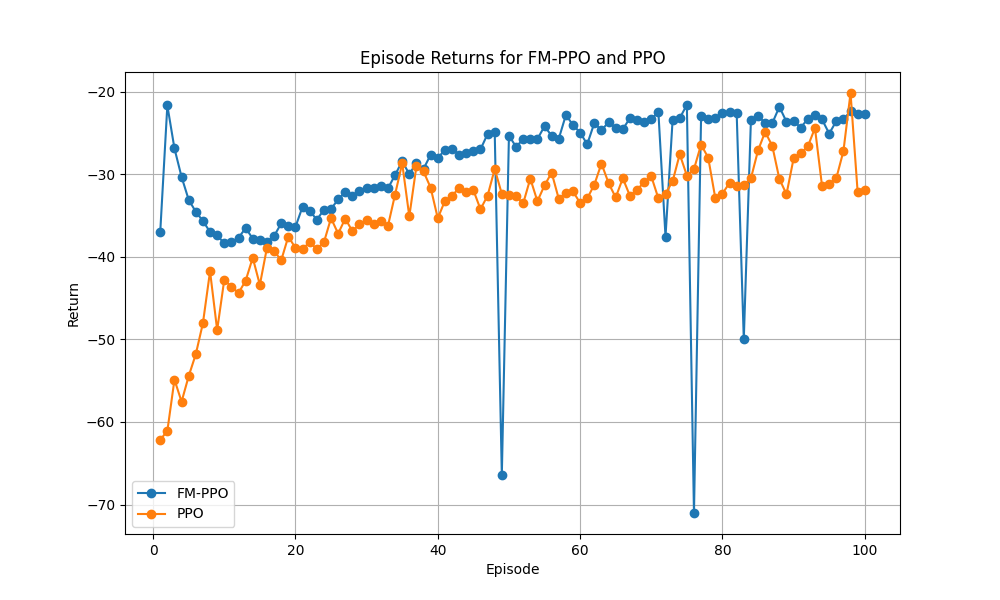
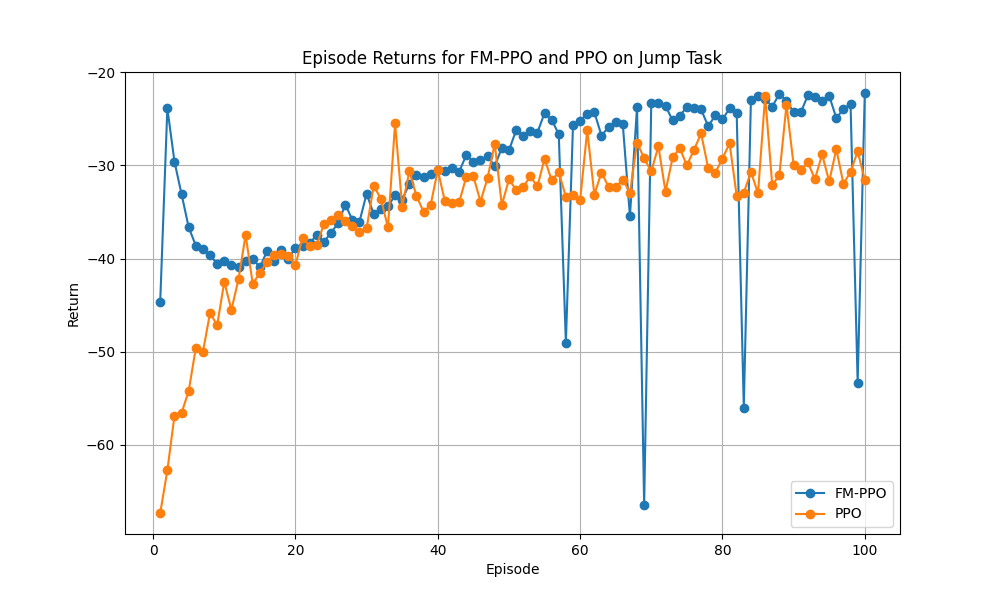
added images

diff --git a/mvp/test.py b/mvp/test.py
@@ -62,12 +62,12 @@ if __name__ == "__main__":
 
     # Load the FM-PPO model
     fmppo_agent = FMPPOAgent(envs).to(device)
-    fmppo_path = os.path.join(os.getcwd(), "mvp", "params", "fmppo_vector_vel2.pth")
+    fmppo_path = os.path.join(os.getcwd(), "mvp", "params", "fmppo_vector.pth")
     fmppo_agent.load_state_dict(torch.load(fmppo_path, map_location=device))
 
     # Load the PPO model
     ppo_agent = PPOAgent(envs).to(device)
-    ppo_path = os.path.join(os.getcwd(), "mvp", "params", "ppo_vector_vel2.pth")
+    ppo_path = os.path.join(os.getcwd(), "mvp", "params", "ppo_vector.pth")
     ppo_agent.load_state_dict(torch.load(ppo_path, map_location=device))
 
     episode_num = 100
@@ -77,11 +77,9 @@ if __name__ == "__main__":
     plt.figure(figsize=(10, 6))
     plt.plot(range(1, len(fmppo_returns)+1), fmppo_returns, label="FM-PPO", marker='o')
     plt.plot(range(1, len(ppo_returns)+1), ppo_returns, label="PPO", marker='o')
-    plt.title("Episode Returns for FM-PPO and PPO")
+    plt.title("Episode Returns for FM-PPO and PPO on 1X Running Task")
     plt.xlabel("Episode")
     plt.ylabel("Return")
     plt.legend()
     plt.grid(True)
     plt.show()
-
-

diff --git a/mvp/fmppo_vector.py b/mvp/fmppo_vector.py
@@ -60,7 +60,7 @@ def make_env(env_id, idx, capture_video, run_name, gamma):
             # fixed it by reading Stack Overfloat
         else:
             env = gym.make(env_id)
-        env = TargetVelocityWrapper(env, target_velocity=2.0)
+        # env = TargetVelocityWrapper(env, target_velocity=2.0)
         # env = JumpRewardWrapper(env, jump_target_height=2.0)
         env = gym.wrappers.FlattenObservation(env)  # deal with dm_control's Dict observation space
         env = gym.wrappers.RecordEpisodeStatistics(env)

diff --git a/mvp/ppo_vector.py b/mvp/ppo_vector.py
@@ -54,7 +54,7 @@ def make_env(env_id, idx, capture_video, run_name, gamma):
         else:
             env = gym.make(env_id)
         
-        env = TargetVelocityWrapper(env, target_velocity=2.0)
+        # env = TargetVelocityWrapper(env, target_velocity=2.0)
         # env = JumpRewardWrapper(env=env, jump_target_height=1.0)
         env = gym.wrappers.FlattenObservation(env)  # deal with dm_control's Dict observation space
         env = gym.wrappers.RecordEpisodeStatistics(env)

diff --git a/README.md b/README.md
@@ -23,7 +23,7 @@ Transfer Three Times Core:
 
 PPO and Fm-PPO Agent post-training evaluation on new random environment for same running task as training:
 
-![Alt text](demos/vectorized_half_cheetah/eval/eval_same_task.png)
+![Alt text](demos/vectorized_half_cheetah/eval/eval_vel1.png)
 
 ### Transfer Learning
 
